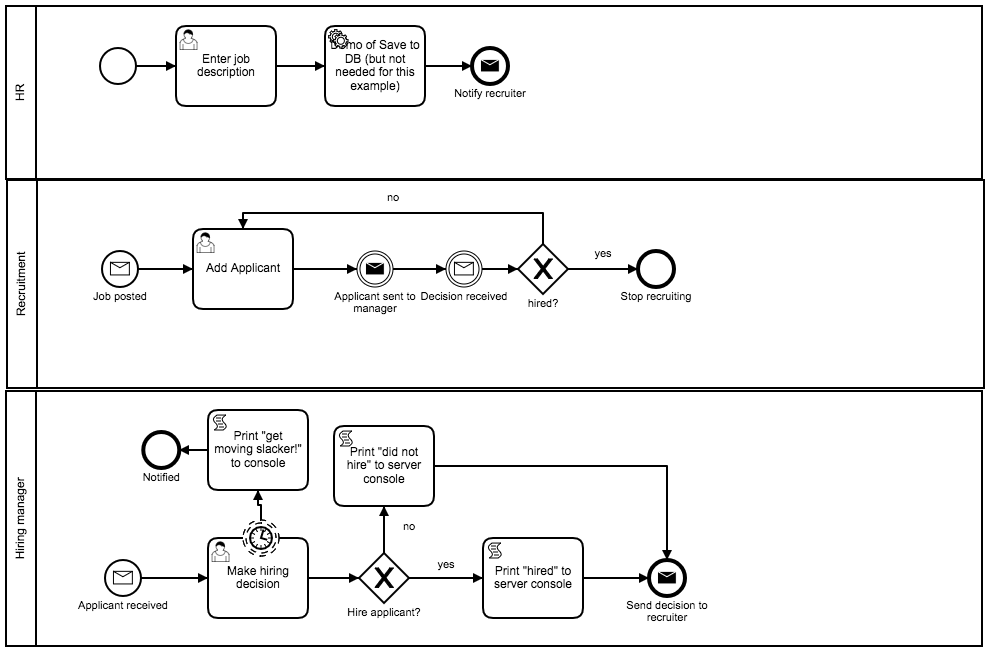
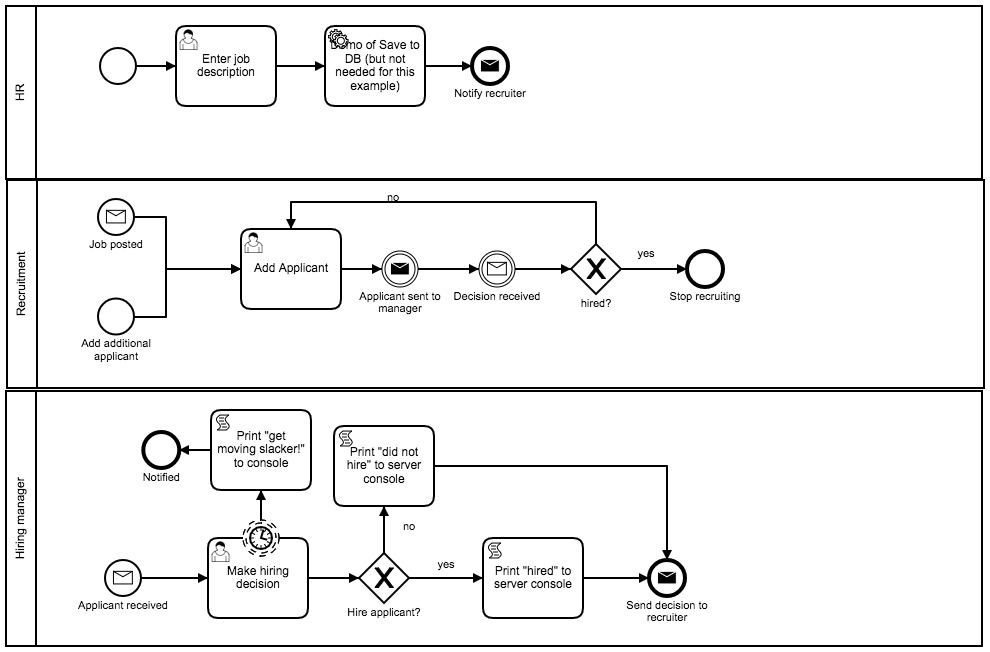
Demonstrating overriding start form.

Changed region(s): [[0.0909, 0.3067, 0.7576, 0.5521], [0.2121, 0.6135, 0.3333, 0.7669], [0.5455, 0.4601, 0.6061, 0.4908]]

diff --git a/src/main/resources/forms/add-applicant-start.html b/src/main/resources/forms/add-applicant-start.html
@@ -1,0 +1,4 @@
+<form role="form" name="form">
+<label for="jobTitle-field">Job Title</label>
+<input type="text" required id="jobTitle-field" cam-variable-name="jobTitle" cam-variable-type="String" class="form-control" cam-business-key />
+</form>

diff --git a/src/main/java/edu/rosehulman/messages/SimpleMessage.java b/src/main/java/edu/rosehulman/messages/SimpleMessage.java
@@ -6,9 +6,10 @@ import org.camunda.bpm.engine.RuntimeService;
 import org.camunda.bpm.engine.delegate.DelegateExecution;
 import org.camunda.bpm.engine.delegate.JavaDelegate;
 import org.camunda.bpm.engine.runtime.MessageCorrelationBuilder;
-import org.camunda.bpm.model.bpmn.instance.IntermediateThrowEvent;
 import org.camunda.bpm.model.bpmn.instance.MessageEventDefinition;
 import org.camunda.bpm.model.bpmn.instance.ThrowEvent;
+
+import java.util.logging.Logger;
 
 /**
  * Created by mhays on 7/1/16.
@@ -19,16 +20,19 @@ public class SimpleMessage implements JavaDelegate {
         // inferring message name from the originating UML node beats copy/pasting boilerplate code
         ProcessEngine processEngine = BpmPlatform.getDefaultProcessEngine();
         RuntimeService runtimeService = processEngine.getRuntimeService();
-        ThrowEvent e = (ThrowEvent)execution.getBpmnModelElementInstance();
-        MessageEventDefinition eventDefinition = (MessageEventDefinition)e.getEventDefinitions().iterator().next();
+        ThrowEvent e = (ThrowEvent) execution.getBpmnModelElementInstance();
+        MessageEventDefinition eventDefinition = (MessageEventDefinition) e.getEventDefinitions().iterator().next();
 
         // now build message
         String messageName = eventDefinition.getMessage().getName();
         MessageCorrelationBuilder b = runtimeService.createMessageCorrelation(messageName);
         // FIXME: crashes if you don't enter business key
-        b = b.processInstanceBusinessKey("");
-        if(execution.getProcessBusinessKey()!=null){
+        if (execution.getProcessBusinessKey() != null) {
+            Logger.getLogger("SimpleMessage").info("Reusing key: " + execution.getProcessBusinessKey());
             b = b.processInstanceBusinessKey(execution.getProcessBusinessKey());
+        } else {
+            // This process is MISSING a business key. That's bad.
+            Logger.getLogger("SimpleMessage").warning("Business key missing from message: " + messageName);
         }
         b.setVariables(execution.getVariables())
                 .correlate();
